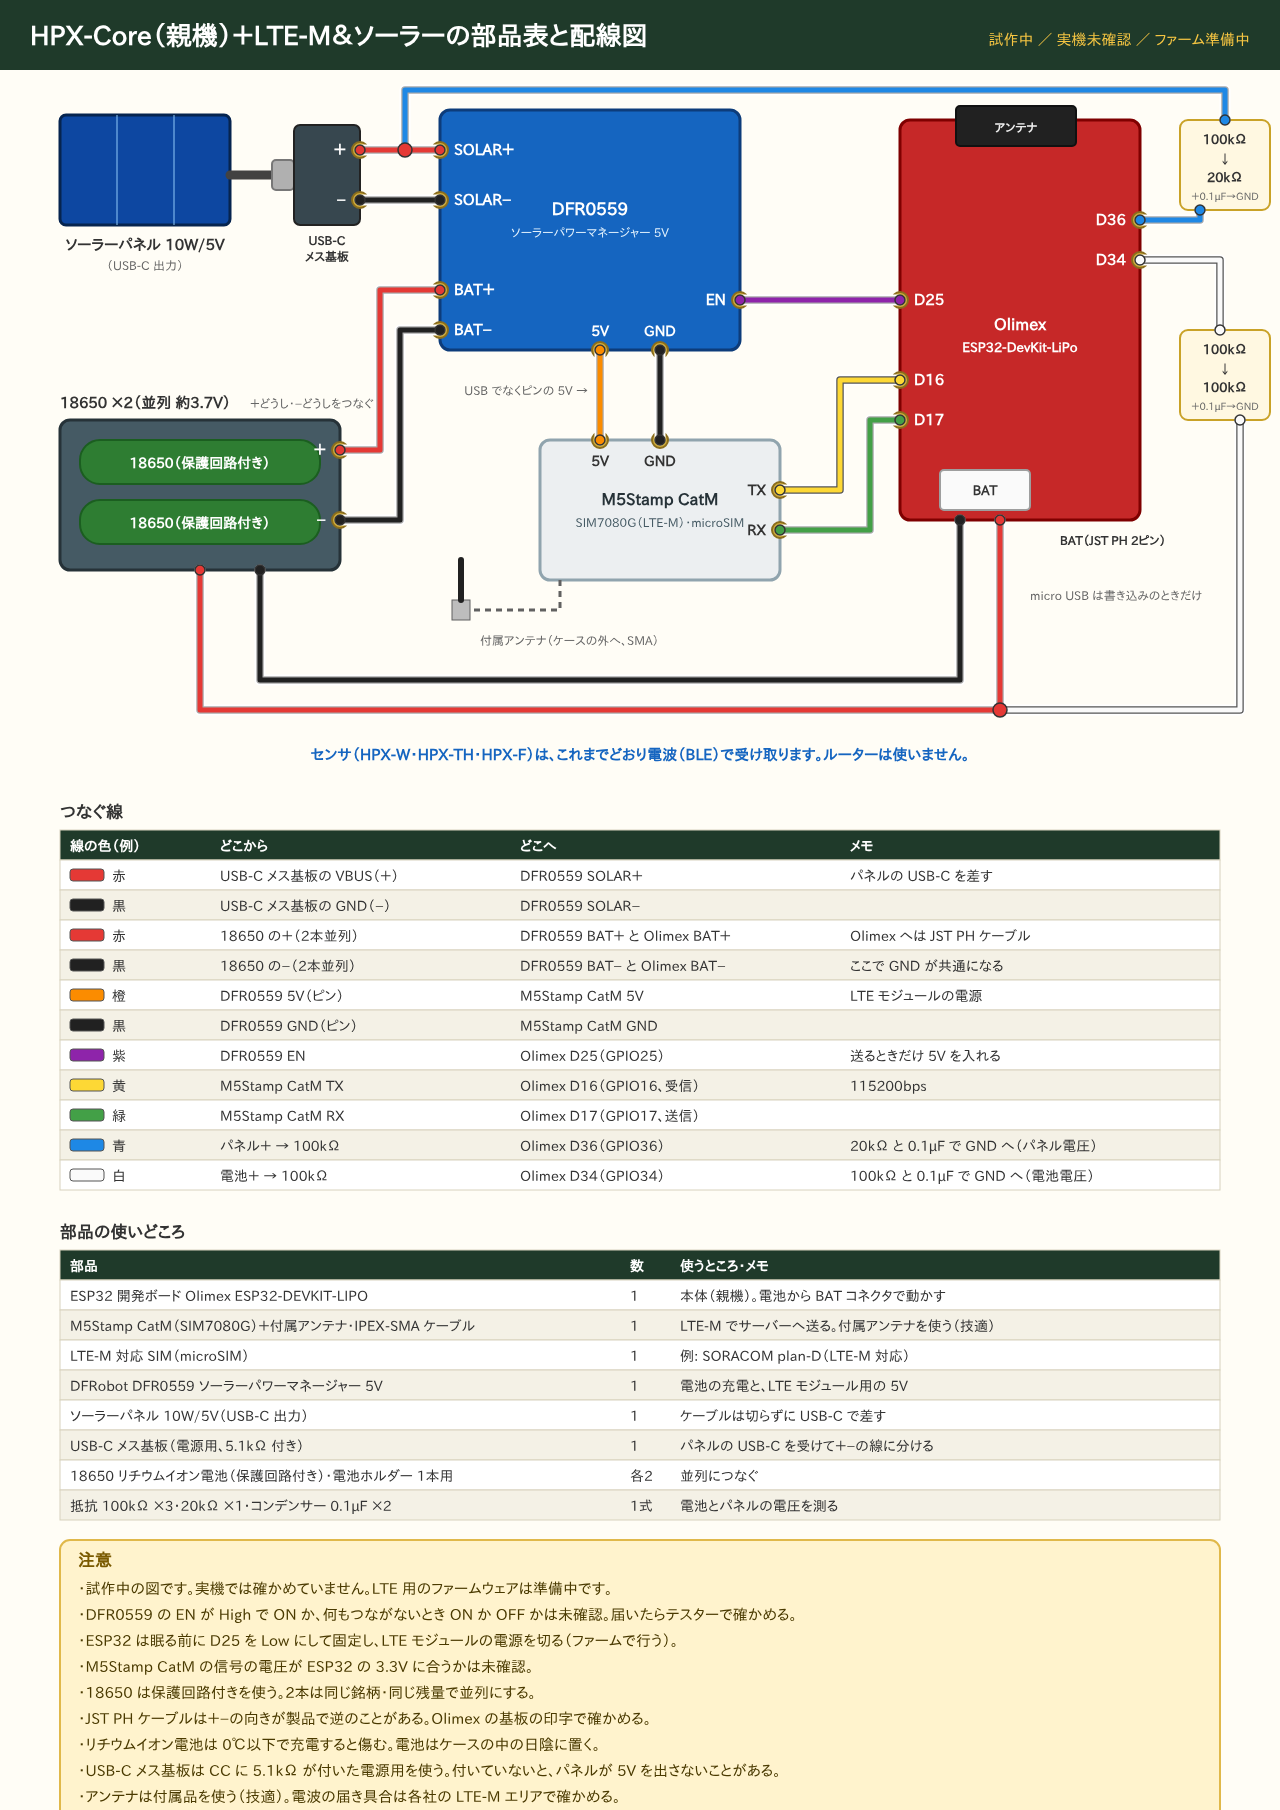
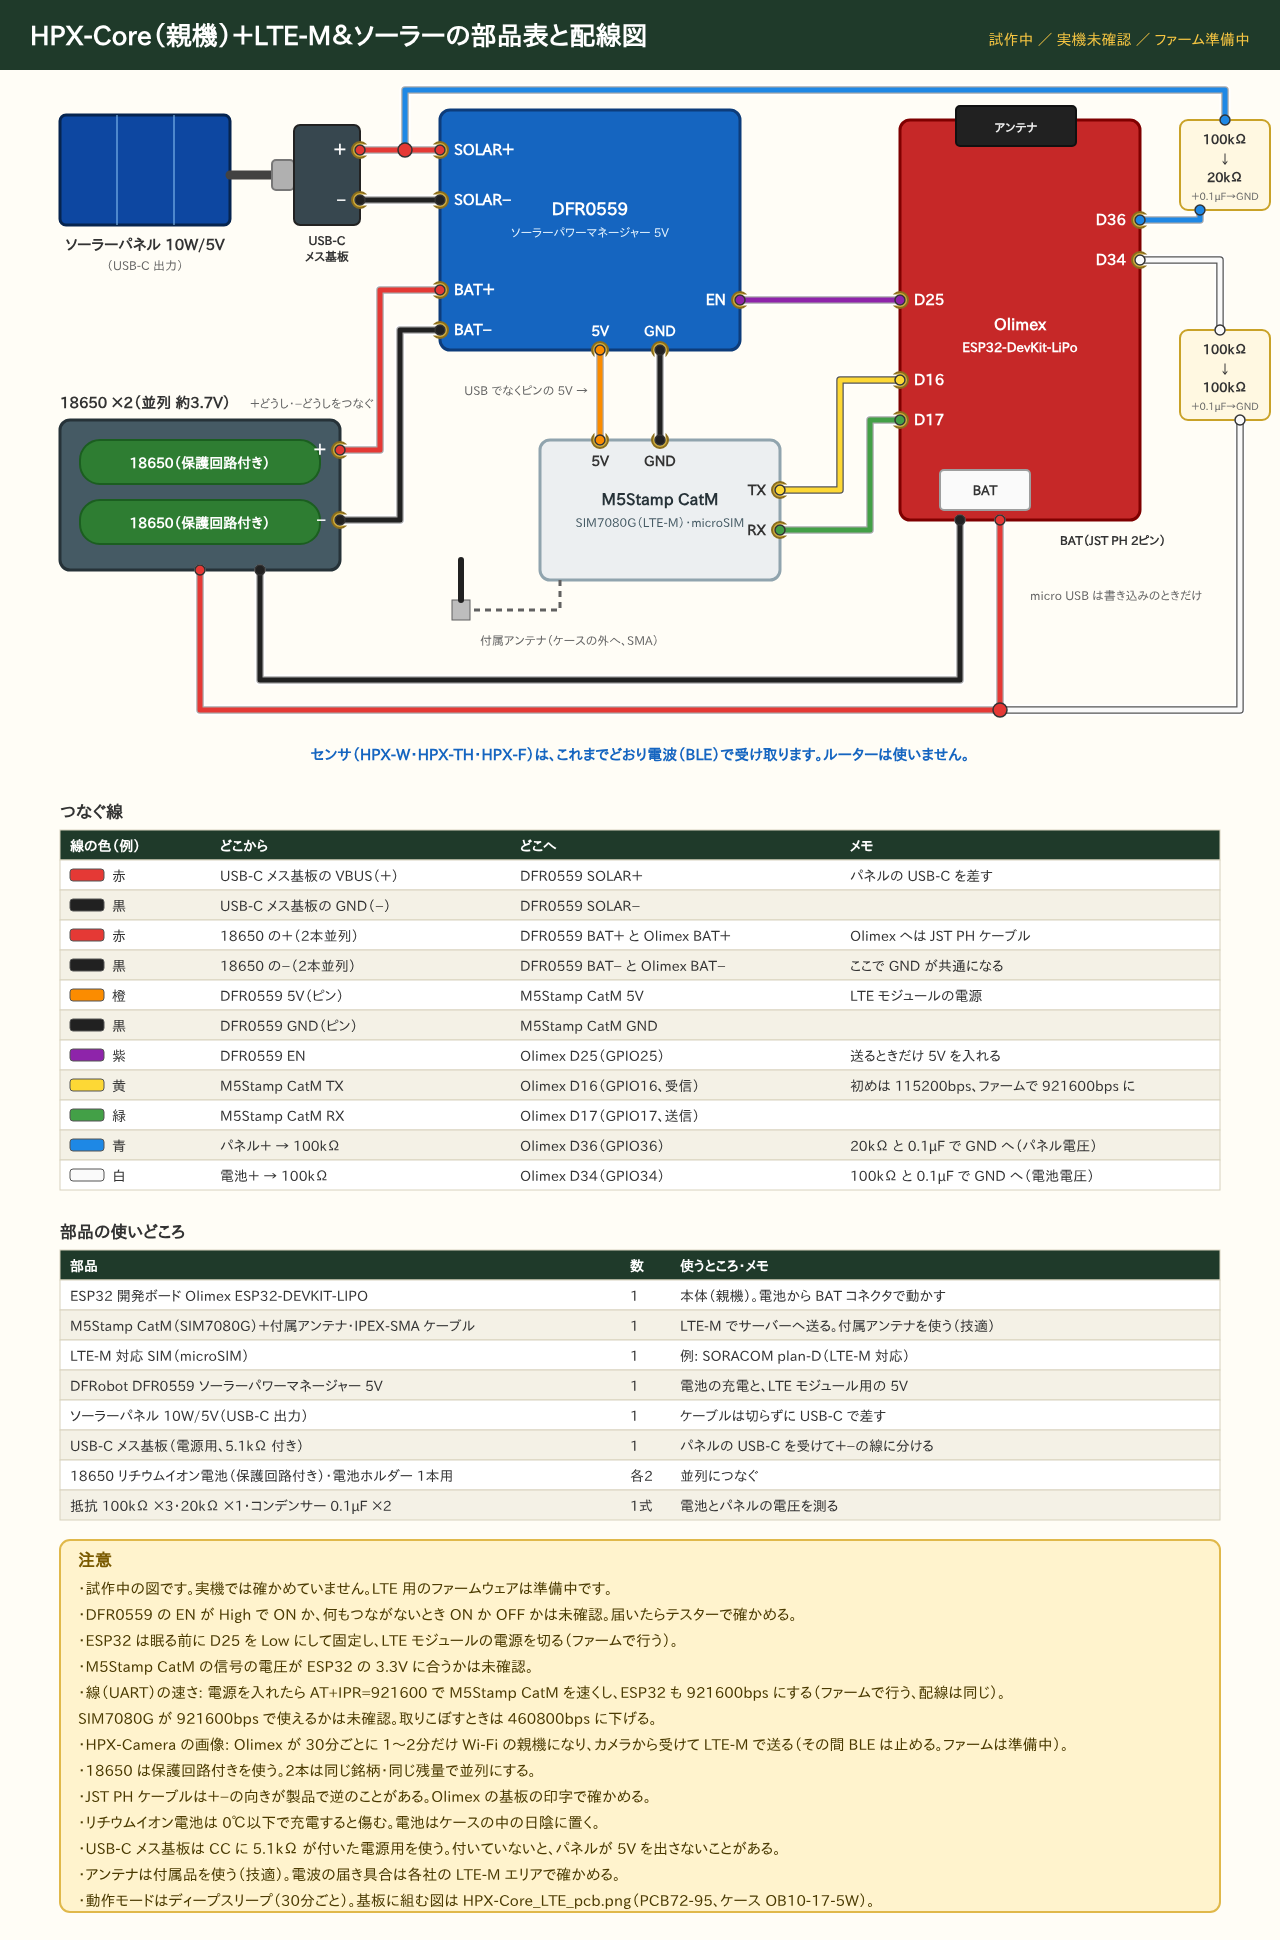
HPX-Core ＋LTE-M＆ソーラー: UART を 921600bps にする方針と、HPX-Camera の画像を Olimex で受ける方針を追記
Claude-Session: https://claude.ai/code/session_01LCC9B3UNQtGk8mm67qSSxg

diff --git a/hardware/wiring/gen_wiring.py b/hardware/wiring/gen_wiring.py
@@ -532,7 +532,7 @@ print("ok LAN")
 # Olimex ESP32-DEVKIT-LIPO ＋ M5Stamp CatM (SIM7080G) ＋ DFRobot DFR0559 (ソーラー充電・5V 昇圧) ＋ 18650×2 並列。
 # ESP32 は電池から Olimex の BAT コネクタで動かし、LTE モジュールは DFR0559 の 5V 出力 (EN を GPIO25 で入り切り) から。
 # 送るときだけ 5V を入れるので、眠っている間 LTE モジュールは電気を使わない。図は線の対応だけ (基板の穴の図は部品が届いてから)。
-s = S(1280, 1810)
+s = S(1280, 1940)
 title(s, "HPX-Core（親機）＋LTE-M＆ソーラーの部品表と配線図", "試作中 ／ 実機未確認 ／ ファーム準備中")
 def board_box(x, y, w, h, fill, stroke, name, sub):
     s.rect(x, y, w, h, fill, stroke, 10, 3)
@@ -637,7 +637,7 @@ LTE_WIRES = [
     ["orange", "DFR0559 5V（ピン）", "M5Stamp CatM 5V", "LTE モジュールの電源"],
     ["black", "DFR0559 GND（ピン）", "M5Stamp CatM GND", ""],
     ["purple", "DFR0559 EN", "Olimex D25（GPIO25）", "送るときだけ 5V を入れる"],
-    ["yellow", "M5Stamp CatM TX", "Olimex D16（GPIO16、受信）", "115200bps"],
+    ["yellow", "M5Stamp CatM TX", "Olimex D16（GPIO16、受信）", "初めは 115200bps、ファームで 921600bps に"],
     ["green", "M5Stamp CatM RX", "Olimex D17（GPIO17、送信）", ""],
     ["blue", "パネル＋ → 100kΩ", "Olimex D36（GPIO36）", "20kΩ と 0.1µF で GND へ（パネル電圧）"],
     ["white", "電池＋ → 100kΩ", "Olimex D34（GPIO34）", "100kΩ と 0.1µF で GND へ（電池電圧）"],
@@ -660,6 +660,9 @@ LTE_NOTES = [
     "・DFR0559 の EN が High で ON か、何もつながないとき ON か OFF かは未確認。届いたらテスターで確かめる。",
     "・ESP32 は眠る前に D25 を Low にして固定し、LTE モジュールの電源を切る（ファームで行う）。",
     "・M5Stamp CatM の信号の電圧が ESP32 の 3.3V に合うかは未確認。",
+    "・線（UART）の速さ: 電源を入れたら AT+IPR=921600 で M5Stamp CatM を速くし、ESP32 も 921600bps にする（ファームで行う、配線は同じ）。",
+    "  SIM7080G が 921600bps で使えるかは未確認。取りこぼすときは 460800bps に下げる。",
+    "・HPX-Camera の画像: Olimex が 30分ごとに 1〜2分だけ Wi-Fi の親機になり、カメラから受けて LTE-M で送る（その間 BLE は止める。ファームは準備中）。",
     "・18650 は保護回路付きを使う。2本は同じ銘柄・同じ残量で並列にする。",
     "・JST PH ケーブルは＋−の向きが製品で逆のことがある。Olimex の基板の印字で確かめる。",
     "・リチウムイオン電池は 0℃以下で充電すると傷む。電池はケースの中の日陰に置く。",

diff --git a/hardware/wiring/README.md b/hardware/wiring/README.md
@@ -24,7 +24,7 @@
 図は `gen_pcb.py` (基板の図) と `gen_wiring.py` (HPX-Core の図) で作っています。`python3 gen_pcb.py <出力フォルダ>` で SVG を作り直せます。
 
 ## まだ確かめていないこと
-
+、SIM7080G の UART を 921600bps にできるか (AT+IPR)
 - HPX-Core ＋LTE-M＆ソーラー: DFR0559 の EN の向き (High で ON か) と初期状態、M5Stamp CatM の信号電圧 (3.3V で使えるか) とピンの並び・電源を入れたら自動で起動するか、Olimex の BAT コネクタの＋−の向き、DFR0559 の GND が SOLAR−・BAT− と共通か、ケース OB10-17-5W の中の深さ (2段で約 55mm が入るか)、DFR0559 と 18650 ホルダーの実寸
 - ロードセル SC601 の線の色の割り当て (図は一般的な 赤=E+ 黒=E- 白=A- 緑=A+)
 - HPX-F の CdS セルで警報器の点滅を数えられるか (CdS は反応が遅め)
